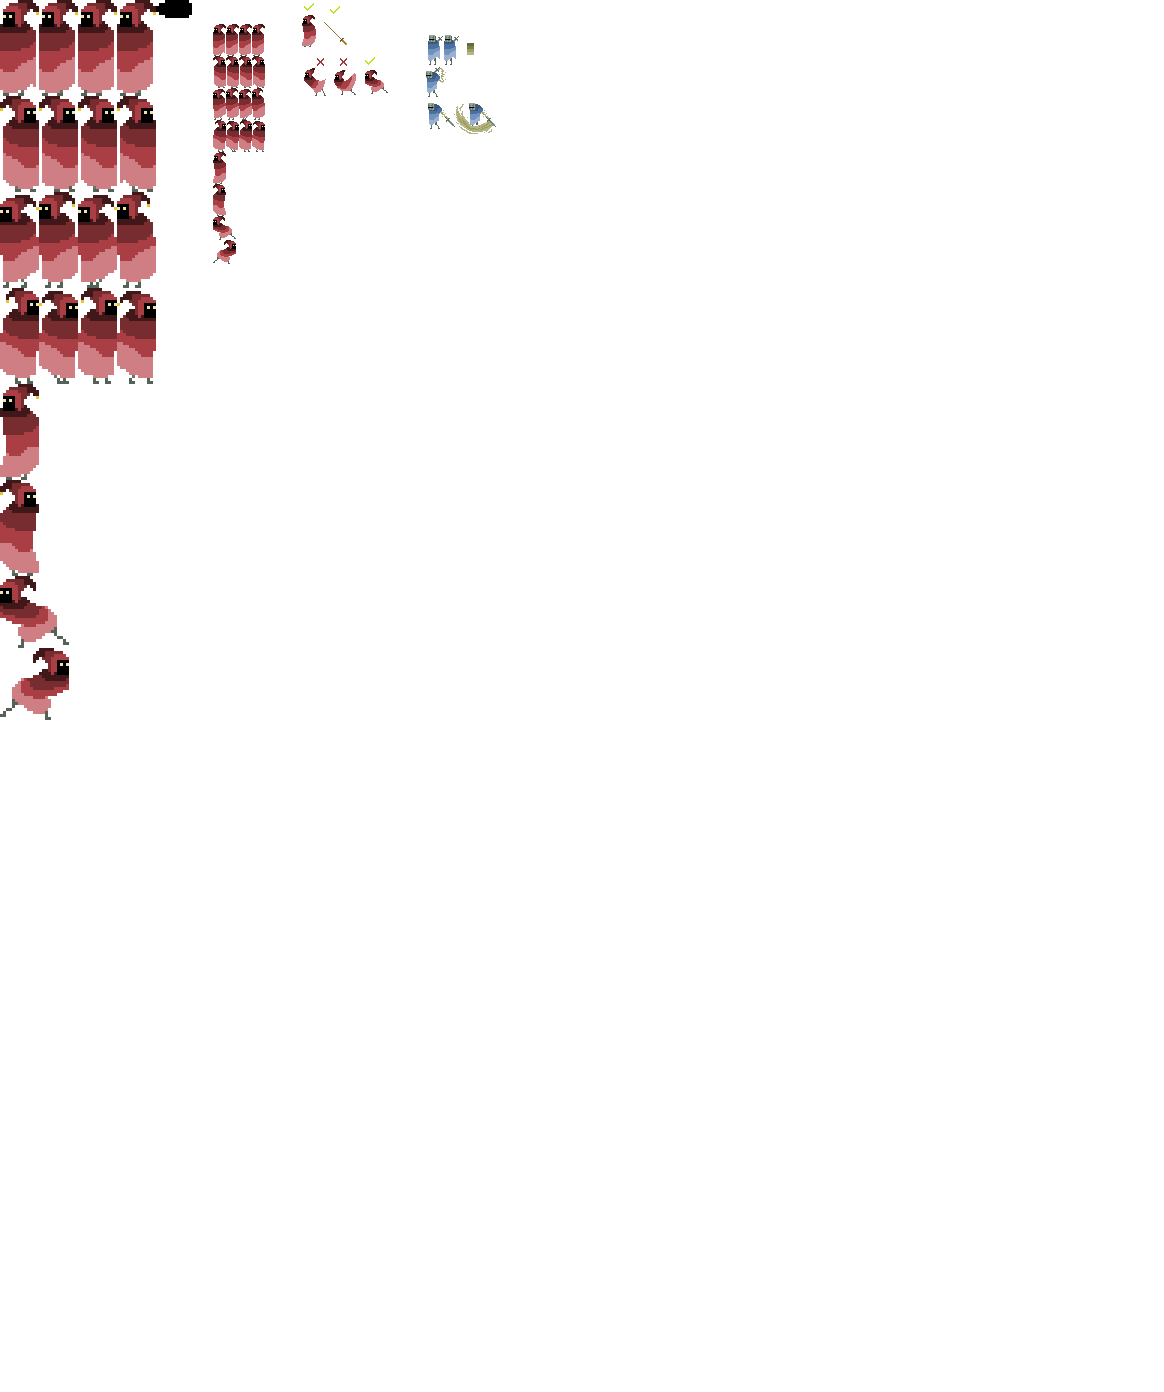
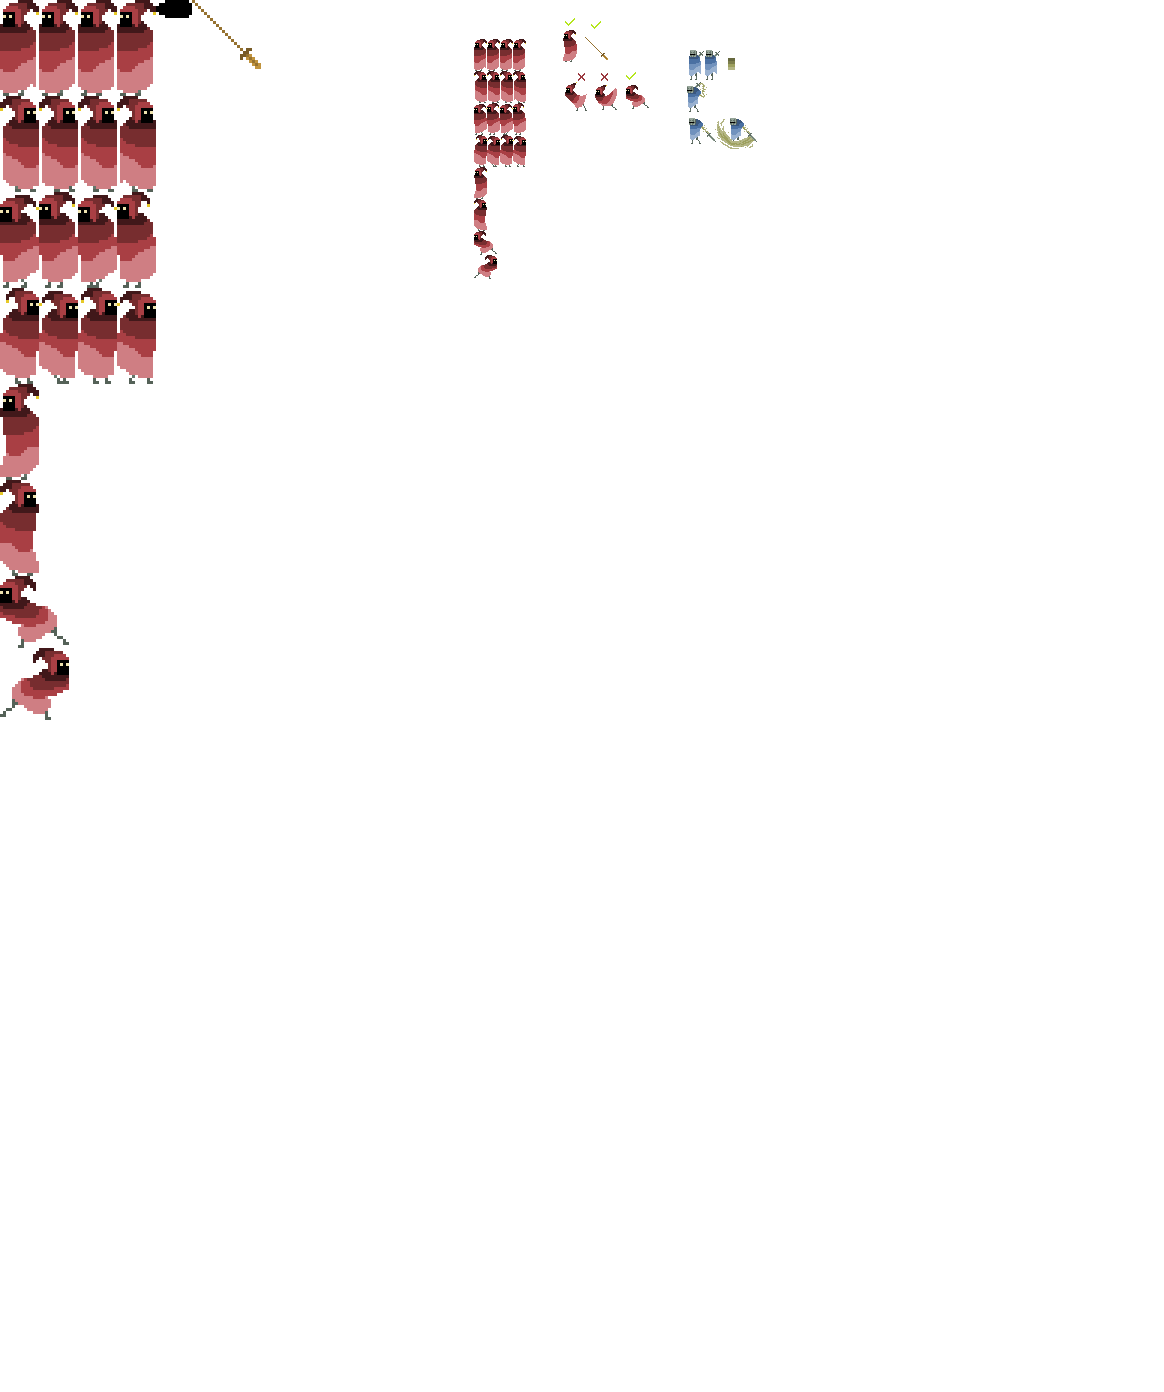
Add files via upload

Changed region(s): [[0.1856, 0.0, 0.4948, 0.2162], [0.5876, 0.0309, 0.6495, 0.1236], [0.4948, 0.0618, 0.5567, 0.0927]]

diff --git a/PlayerSpear.cpp b/PlayerSpear.cpp
@@ -1,4 +1,9 @@
 #include "PlayerSpear.h"
+#include "Mist.h"
+
+#define PI 3.14159265
+#define DEGREES(x) int((x)/360.0*0xFFFFFF)
+#define RADIANS(x) int((x)/2/M_PI*0xFFFFFF)
 
 PlayerSpear::PlayerSpear() {}
 
@@ -7,31 +12,25 @@ void PlayerSpear::Destroy()
 	GameObject::Destroy();
 }
 
-void PlayerSpear::Init(ALLEGRO_BITMAP *image, double ref_x, double ref_y, double ref_image_x, double ref_image_y, bool stable)
+void PlayerSpear::Init(ALLEGRO_BITMAP *image, ALLEGRO_BITMAP *ref_ColorImage, double ref_x, double ref_y, double ref_SpearAngle)
 {
-	GameObject::Init(ref_x, ref_y, 6, 6, 0, 0, DIMW, DIMH, PLAYERSPEAR, TIER0A);
+	GameObject::Init(ref_x, ref_y, PLAYERVELX, PLAYERVELY, 0, 0, 1, 1, PLAYERSPEAR, TIER1C);
 	SetCollidable(false);
 	SetOrigCollidable(false);
 
 	SetAlive(true);
 
-	frameWidth = DIMW;
-	frameHeight = DIMH;
-	image_x = ref_image_x;
-	image_y = ref_image_y;
+	frameWidth = 1;//starts in center of image and 1x1 box. every update, will grow significantly while recentering. This will give the appearance of the spear being summoned.
+	frameHeight = 1;
+	image_x = 226;
+	image_y = 34;
+	//SpearAngle = 0;
+	SpearAngle = (ref_SpearAngle);//image of spear is angled at 315 (or -45) degrees from start
+	SpearState = SPINNING;
+	SpearTipX = 0;
+	SpearTipY = 0;
 
-	if (stable == true)
-		CloudState = PERMASTABLE;//perma stable is for the clouds underneath, which need to form a solid base.
-	else {
-		if (rand() % 2 == 1)
-			CloudState = GROWING;
-		else
-			CloudState = SHRINKING;
-
-		frameHeight = rand() % ((DIMH * 2) - (DIMH / 2)) + (DIMH / 2);
-		frameWidth = frameHeight;
-	}
-
+	ColorImage = ref_ColorImage;
 	if (image != NULL)
 		PlayerSpear::image = image;
 }
@@ -39,35 +38,30 @@ void PlayerSpear::Init(ALLEGRO_BITMAP *image, double ref_x, double ref_y, double
 void PlayerSpear::Update(double cameraX, double cameraY, vector<GameObject*> &objects)
 {
 	GameObject::Update(cameraX, cameraY, objects);
-
-	if (CloudState == SHRINKING && (frameHeight <= DIMH / 2 || frameWidth <= DIMW / 2))//if cloud gets to small, make it regain size
-		CloudState = GROWING;
-
-	if (CloudState == GROWING && (frameHeight >= DIMH * 2 || frameWidth >= DIMW * 2))//if gets too large, make it shrink
-		CloudState = SHRINKING;
-
-	if (CloudState == SHRINKING && rand() % 600 == 1)//chance to start growing while shrinking
-		CloudState = GROWING;
-	if (CloudState == GROWING && rand() % 600 == 1)//chance to start shrinking while growing
-		CloudState = SHRINKING;
-
-
-
-
-	if (CloudState == SHRINKING) {
-		frameWidth -= .25;
-		frameHeight -= .25;
+	if (image_y != 0 && frameWidth < 69 && frameHeight < 69) {//makes Spear expand upon creation
+		frameWidth+=2;
+		frameHeight+=2;
+		image_x--;
+		image_y--;
 	}
-	if (CloudState == GROWING) {
-		frameWidth += .25;
-		frameHeight += .25;
+	/*if (SpearState == SPINNING) {
+		SpearAngle+=10;
 	}
+	if (SpearAngle >= 360)
+		SpearAngle = 0;*/
 
+	//determines position of spear tip
+	SpearTipX = x + (cos((SpearAngle  + 315) / 180 * PI)*(sqrt((frameWidth / 2)*(frameWidth / 2) + (frameHeight / 2)*(frameHeight / 2))));
+	SpearTipY = y + (sin((SpearAngle  + 315) / 180 * PI)*(sqrt((frameWidth / 2)*(frameWidth / 2) + (frameHeight / 2)*(frameHeight / 2))));
+
+	Mist *mist = new Mist();
+	mist->Init(ColorImage, SpearTipX, SpearTipY, FIRE);
+	objects.push_back(mist);
 }
 
 //does not use animation rows, sprites, etc. unnecessary for basic box sprite.
 void PlayerSpear::Render()
 {
 	GameObject::Render();
-	al_draw_tinted_bitmap_region(image, al_map_rgba_f(125, 125, 125, 0.5), image_x, image_y, frameWidth, frameHeight, x + (DIMW - frameWidth) / 2, y + (DIMH - frameHeight) / 2, 0);
+	al_draw_tinted_scaled_rotated_bitmap_region(image, image_x, image_y, frameWidth, frameHeight, al_map_rgba_f(193, 148, 62, 1), frameWidth/2, frameHeight/2, x, y, 1, 1, SpearAngle/PI*180, 0);
 }

diff --git a/main.cpp b/main.cpp
@@ -32,6 +32,7 @@
 #include "CloudBase.h"
 #include "InvisibleTile.h"
 #include "Cultist.h"
+#include "PlayerSpear.h"
 
 #define PI 3.14159265
 #define DEGREES(x) int((x)/360.0*0xFFFFFF)
@@ -437,44 +438,25 @@ int main(int argc, char **argv) {
 				//player movement/attacks
 				if (PlayerLunge == true) {//lunge, only true when Mouse Button is released
 					player->Lunge(StoredMouseAngle);
-					if (player->GetChargeTime() <= 0)
+					
+					if (player->GetChargeTime() <= 0) {
 						PlayerLunge = false;
-					//visual effect to represent how long player has charged:
-					if (player->GetChargeTime() <= 20) {
-						Mist *mist = new Mist();
-						mist->Init(ColorImage, player->GetX() + (player->GetBoundX() / 2), player->GetY() + player->GetBoundY(), SMOKE);
-						objects.push_back(mist);
-					}
-					else if (player->GetChargeTime() > 20 && player->GetChargeTime() < 40) {
-						Mist *mist = new Mist();
-						mist->Init(ColorImage, player->GetX() + (player->GetBoundX() / 2), player->GetY() + player->GetBoundY(), FIRE);
-						objects.push_back(mist);
-					}
-					else if (player->GetChargeTime() >= 40) {
-						Mist *mist = new Mist();
-						mist->Init(ColorImage, player->GetX() + (player->GetBoundX() / 2), player->GetY() + player->GetBoundY(), WISP);
-						objects.push_back(mist);
+						for (iter = objects.begin(); iter != objects.end(); ++iter)//deletes player spear
+						{
+							if ((*iter)->GetID() == PLAYERSPEAR)
+								(*iter)->SetAlive(false);
+						}
+
 					}
 				}			
 				else if (keys[MOUSE_BUTTON]) {//charging
+					if (player->GetChargeTime() == 0) {//beginning of charge
+						PlayerSpear *playerspear = new PlayerSpear();
+						playerspear->Init(PlayerImage, ColorImage, player->GetX() + player->GetBoundX() / 2, player->GetY() + player->GetBoundY() / 2, MouseAngle);
+						objects.push_back(playerspear);
+					}
 					player->Charge(mousex);
 					StoredMouseAngle = MouseAngle;
-					//visual effect to represent how long player has charged:
-					if (player->GetChargeTime() <= 20) {
-						Mist *mist = new Mist();
-						mist->Init(ColorImage, player->GetX() + (player->GetBoundX() / 2), player->GetY() + player->GetBoundY(), SMOKE);
-						objects.push_back(mist);
-					}
-					else if (player->GetChargeTime() > 20 && player->GetChargeTime() < 40) {
-						Mist *mist = new Mist();
-						mist->Init(ColorImage, player->GetX() + (player->GetBoundX() / 2), player->GetY() + player->GetBoundY(), FIRE);
-						objects.push_back(mist);
-					}
-					else if (player->GetChargeTime() >= 40) {
-						Mist *mist = new Mist();
-						mist->Init(ColorImage, player->GetX() + (player->GetBoundX() / 2), player->GetY() + player->GetBoundY(), WISP);
-						objects.push_back(mist);
-					}
 				}			
 				else {//basic movement
 					player->SetChargeTime(0);
@@ -537,6 +519,10 @@ int main(int argc, char **argv) {
 				}
 				if (keys[NUM_6])
 				{
+					PlayerSpear *playerspear = new PlayerSpear();
+					playerspear->Init(PlayerImage, ColorImage, mousex, mousey, MouseAngle);
+					objects.push_back(playerspear);
+					cout << "created spear" << endl;
 					keys[NUM_6] = false;
 				}
 				if (keys[NUM_7])
@@ -589,7 +575,8 @@ int main(int argc, char **argv) {
 				{
 					if ((*iter)->GetID() != MISTSPAWNER &&//list of items that actually require the entire object list.
 						(*iter)->GetID() != MIST &&
-						(*iter)->GetID() != CULTIST)
+						(*iter)->GetID() != CULTIST && 
+						(*iter)->GetID() != PLAYERSPEAR)
 						(*iter)->Update(cameraXDir, cameraYDir, blank);
 					else
 						(*iter)->Update(cameraXDir, cameraYDir, objects);

diff --git a/PlayerSpear.h b/PlayerSpear.h
@@ -12,14 +12,22 @@ private:
 	int image_y;
 	enum SpearType { SPINNING, LUNGING, STABLE };
 	int SpearState;
-	int color;
+	double SpearAngle;
+	double SpearTipX;
+	double SpearTipY;
+	ALLEGRO_BITMAP *ColorImage;
 
 public:
 	PlayerSpear();
 	void Destroy();
 
-	void Init(ALLEGRO_BITMAP *image, double ref_x, double ref_y, double image_x, double image_y, bool stable);
+	void Init(ALLEGRO_BITMAP *image, ALLEGRO_BITMAP *ColorImage, double ref_x, double ref_y, double ref_SpearAngle);
 	void Update(double cameraX, double cameraY, vector<GameObject*> &objects);
 	void Render();
+
+	int GetState() { return SpearState; }
+	void SetState(int SpearState) { PlayerSpear::SpearState = SpearState; }
+	int GetAngle() { return SpearAngle; }
+	void SetAngle(int SpearAngle) { PlayerSpear::SpearAngle = SpearAngle; }
 
 };

diff --git a/Player.cpp b/Player.cpp
@@ -23,7 +23,6 @@ void Player::Init(ALLEGRO_BITMAP *image, double ref_x, double ref_y, int ref_dir
 	Health = 5;
 	Timer = 0;
 	ChargeTime = 0;
-	ChargeTrue = false;
 
 	maxFrame = 4;
 	curFrame = 1;
@@ -105,9 +104,7 @@ void Player::Dash(double MouseAngle) {
 }
 void Player::Charge(int mousex) {
 	cout << ChargeTime << endl;
-	if (ChargeTime >= 40)
-		ChargeTrue = true;
-	else
+	if (ChargeTime <= 40)
 		ChargeTime++;
 
 	if (x > mousex)

diff --git a/Globals.h b/Globals.h
@@ -39,6 +39,7 @@ enum ID {//new prototype ID system, that might work better when handling unique 
 	SCROLLER, 
 	SHADOWEDBLOCK, 
 	TERRAIN, 
+	PLAYERSPEAR
 };
 enum TIER {	TIER0A, TIER0B, TIER0C,//background + base, clouds
 			TIER1A, //tile
